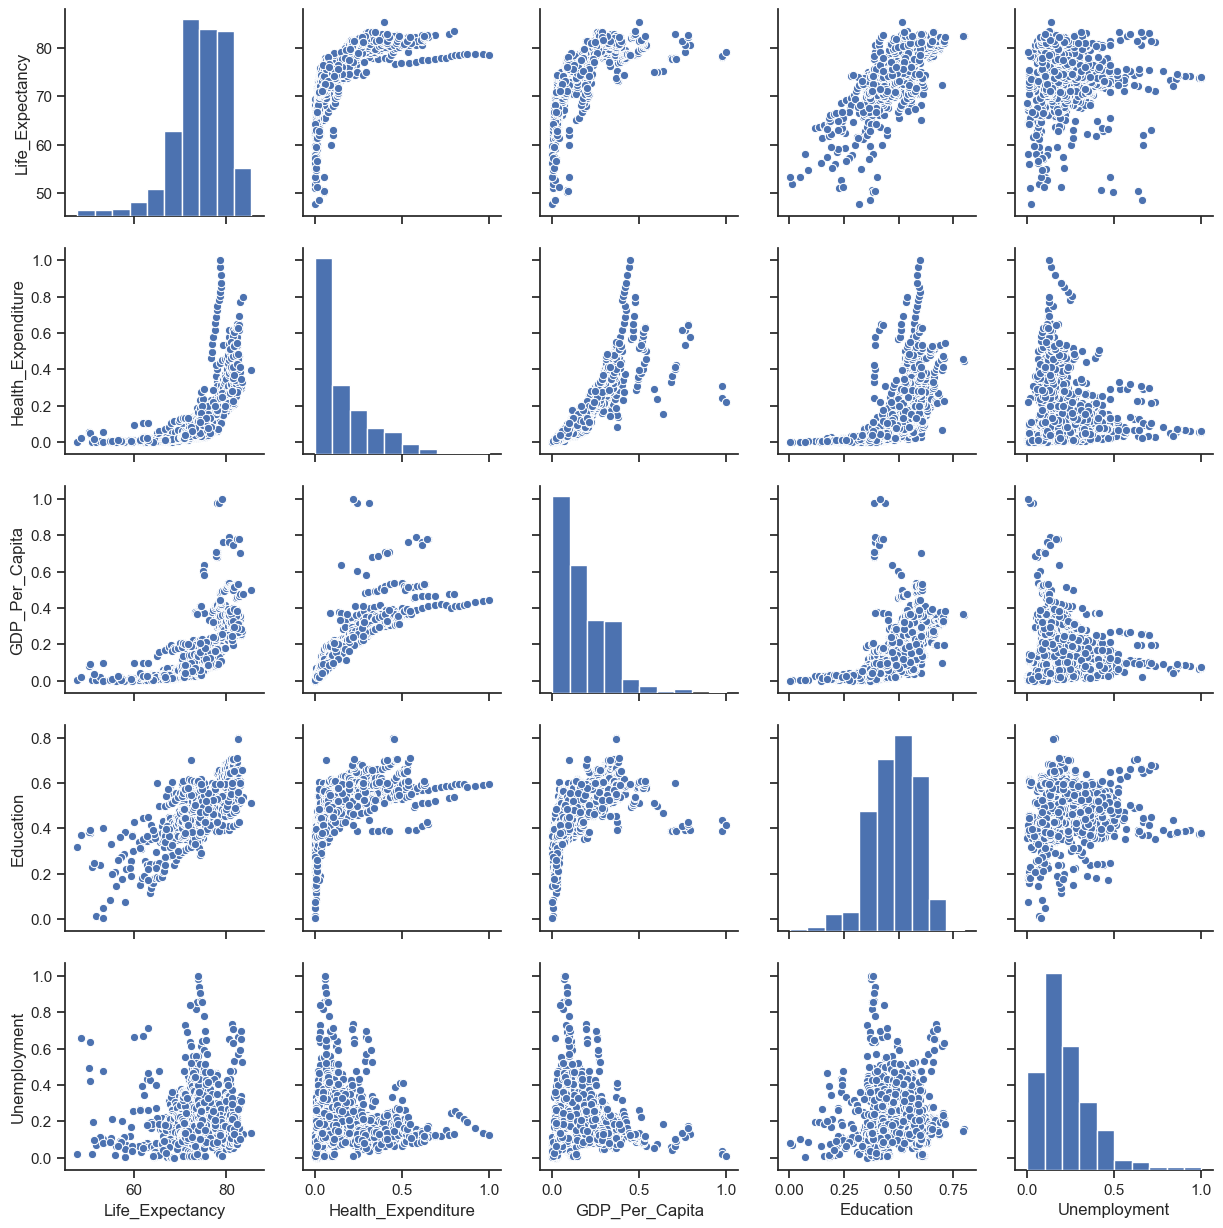
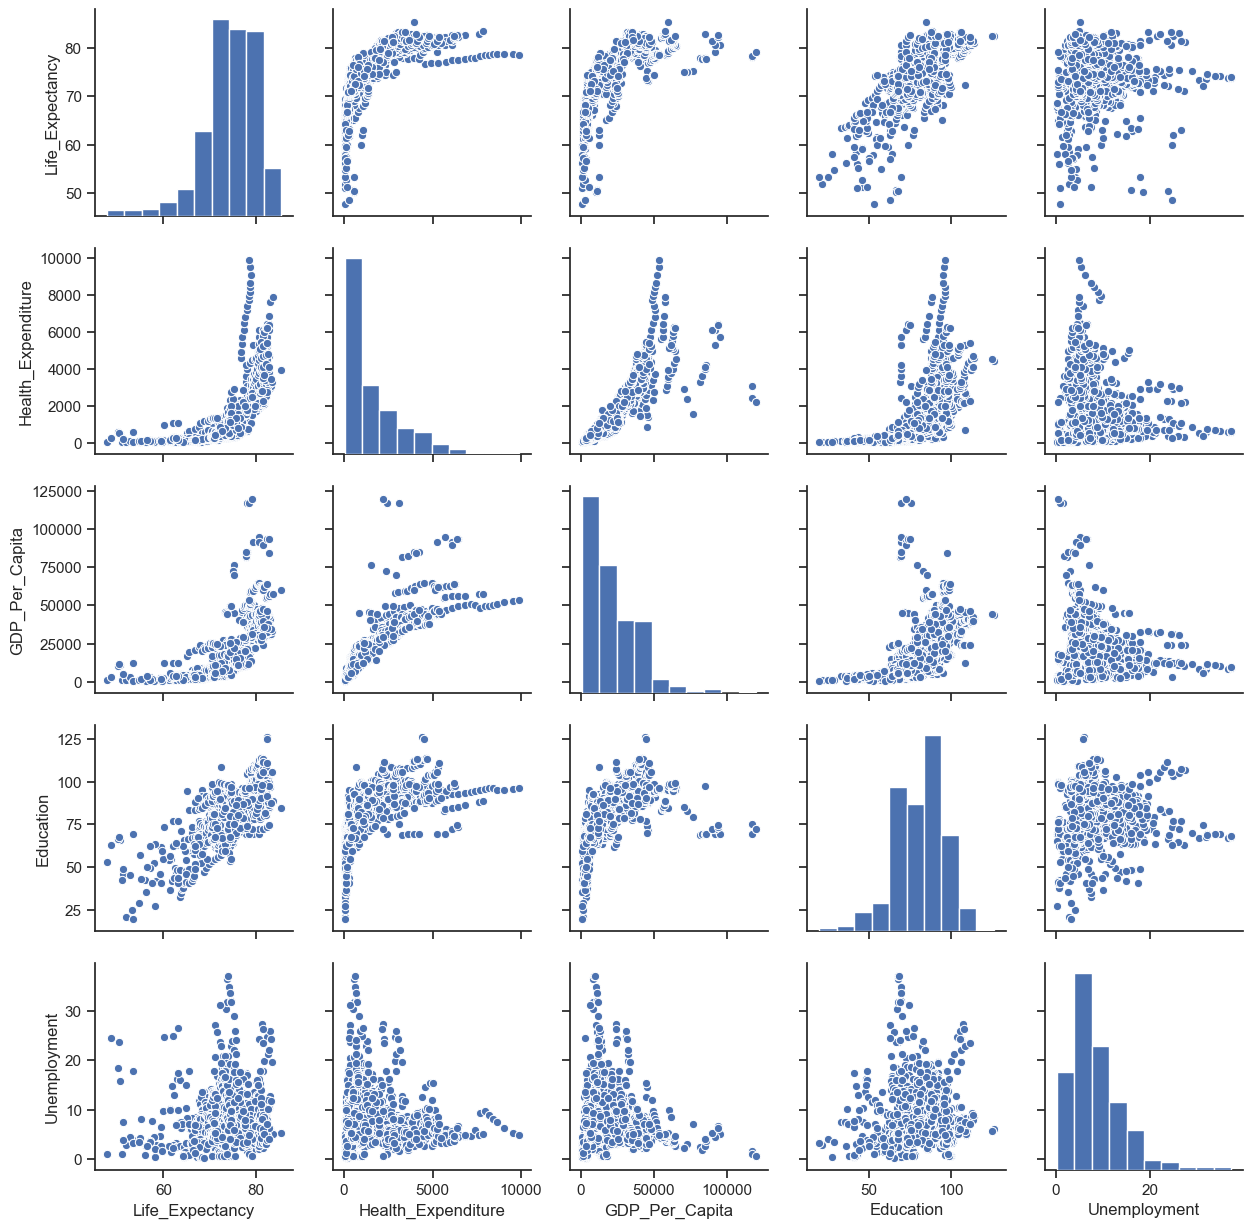
added correct axis scales

diff --git a/Hons Project/matrixscatterplot.py b/Hons Project/matrixscatterplot.py
@@ -1,7 +1,7 @@
 import seaborn as sns
 import pandas as pd
 
-df = pd.read_csv("test.csv")
+df = pd.read_csv("raw.csv")
 df= df[['Life_Expectancy','Health_Expenditure','GDP_Per_Capita','Education','Unemployment']]
 
 sns.set(style="ticks", color_codes=True)
